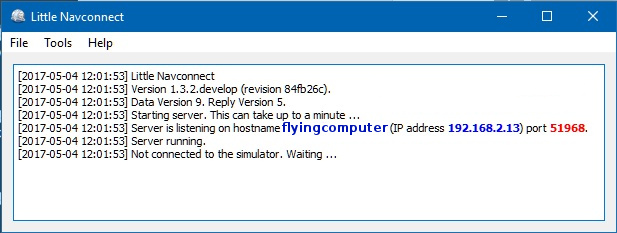
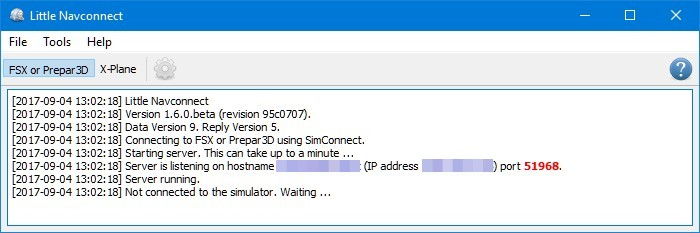
Updated for Little Navmap release 1.6.3 and initial Xpconnect release.

diff --git a/littlenavmap.md b/littlenavmap.md
@@ -1,36 +1,10 @@
 ---
 layout: subpage
 title:  "Little Navmap"
-date:   2017-07-04 20:06:00 +0200
+date:   2017-09-18 12:00:00 +0200
 ---
 [Alex’ Projects](index.html) ► Little Navmap
 # ![Little Navmap](assets/images/navroute.png) Little Navmap
-
-Version 1.4.4.
-
-*Little Navmap* is a free open source flight planner, navigation tool, moving map, airport search and airport information system for Flight Simulator X and Prepar3D.
-
-* All is based purely on flight simulator stock or add-on data, no third party data needed. All stock and add-on airports are loaded in a few minutes. Navigation database updates by [fsAerodata](https://www.fsaerodata.com) and [FSX/P3D Navaids update](https://www.aero.sors.fr/navaids3.html) are supported.
-* It features a detail rich **navigation map** that partially uses symbols from real VFR maps thus transporting a large amount of information. Multiple offline maps, online map themes ([OpenStreetMap](https://www.openstreetmap.org), [OpenTopoMap](https://opentopomap.org), [OpenMapSurfer](http://korona.geog.uni-heidelberg.de/) and more) and two map projections are available. Several map themes provide hill shading.
-* The map shows user and **AI aircraft as well as ships**, airports, **airport maps** (runway details, overrun areas, displaced tresholds, taxiways and more), VOR, VORTAC, TACAN, NDB, ILS, waypoints, airways, airspaces, approach and departure procedures and more. Plenty of information is available in tooltips or information windows for each map object.
-* **Flight plans** and flight plan fragments can be loaded, saved and merged all using the common Flight Simulator PLN files.
-* Additionally flight plans can be exported to the **GFP format used by the Flight1 GTN 650/750**. More export formats are **GPX (GPS Exchange Format, including flown track), PMDG RTE, Aerosoft Airbus FLP and X-Plane FMS**.
-* **Drag and drop** flight plan editing functionality on the map allows to easily create and edit plans.
-* Several fast **automatic flight plan calculation** modes are available to create plans following airways or simply from radio navaid to radio navaid within a split second. No online service is needed for flight plan calculation.
-* Option to **calculate flight plan fragments** between any two waypoints of a present flight plan.
-* Flight plan route descriptions can be read which allows to convert flight plans from and to **ATS routes** as can be retrieved from the various online services like [RouteFinder](http://rfinder.asalink.net). This includes SIDs, STARs and information for cruise speed and altitude.
-* A **profile** window shows the **ground elevation** along the flight plan including the minimum safe altitude for the whole plan or each segment.
-* The map and flight plans including all related information at departure and destination can be **printed**.
-* A fast **airport and navaid search** allows to look for objects by an unimaginable amount of options also featuring a spatial search.
-* **Information windows** display numerous details about airports, runways, COM frequencies, approach and departure procedures, navaids, the user aircraft, AI or multiplayer aircraft as well as ships, **decoded weather** from multiple sources like AS16, Active Sky Next, NOAA and Vatsim.
-* The map display and the measurement units (nautical, metric, imperial) can be customized by the user.
-* All settings, search parameters, current flight plan, map positions and much more are saved between sessions.
-* *Little Navmap* can connect directly to the flight simulator and can also be run stand-alone or in **networked configuration**.
-* An **automatic reconnect** option makes the start order of programs irrelevant. Running a networked setup needs the included [Little Navconnect](littlenavconnect.html) program which eases setup across two or more computers.
-* The program does not consume a lot of resources and can be run on **low end computers**.
-* **Help** is available online \(can be downloaded as PDF, ePub or Mobi\). A PDF file with the complete manual is included with the program. Help buttons in dialogs link to corresponding online help chapter.
-
-**Note that VORTAC, TACAN, SID and STAR need a navdata update by [_fsAerodata_](https://www.fsaerodata.com).**
 
 ## Links {#links}
 
@@ -38,12 +12,44 @@ Version 1.4.4.
 
 [**► Screenshots**](littlenavmapscreens.html)
 
-[► Online User Manual for version](https://albar965.gitbooks.io/little-navmap-user-manual/content/v/release/1.4/en)
+[► Online User Manual for version](https://albar965.gitbooks.io/little-navmap-user-manual/content/v/release/1.6/en)
 
-[► Features](https://albar965.gitbooks.io/little-navmap-user-manual/content/v/release/1.4/en/FEATURES.html)
+[► Features](https://albar965.gitbooks.io/little-navmap-user-manual/content/v/release/1.6/en/FEATURES.html)
 
-[► Map Legend](https://albar965.gitbooks.io/little-navmap-user-manual/content/v/release/1.4/en/LEGEND.html)
+[► Map Legend](https://albar965.gitbooks.io/little-navmap-user-manual/content/v/release/1.6/en/LEGEND.html)
 
 [► GitHub Little Navmap Project and Sources](https://github.com/albar965/littlenavmap)
 
 [![Little Navmap](assets/images/Tipp_FSMagazin_D_Neu_2014_50.png)](https://www.facebook.com/FSMAGAZIN/posts/1349379408450042)
+
+## Version 1.6.3 Features
+
+* *Little Navmap* is a free open source flight planner, navigation tool, moving map, airport search and airport information system.
+* Supported platforms: **Windows 7, 8, 10, Linux and macOS**.
+* Support for **Flight Simulator X, Flight Simulator - Steam Edition, Prepar3D v2, v3, v4 and X-Plane 11**.
+* All is based purely on flight simulator stock or add-on data, no third party data needed. All stock and add-on airports are loaded in a few minutes. Navigation database updates by [fsAerodata](https://www.fsaerodata.com) and [FSX/P3D Navaids update](https://www.aero.sors.fr/navaids3.html) are supported. Support for X-Plane navdata updates.
+* FSX or Prepar3D airspaces can be copied into the X-Plane database.
+* Uses X-Plane stock and updated navdata for approach, SID and STAR procedures including transitions.
+* It features a detail rich **navigation map** that partially uses symbols from real VFR maps thus transporting a large amount of information. Multiple offline maps, online map themes ([OpenStreetMap](https://www.openstreetmap.org), [OpenTopoMap](https://opentopomap.org), [OpenMapSurfer](http://korona.geog.uni-heidelberg.de/) and more) and two map projections are available. Several map themes provide hill shading.
+* The map shows user and **AI aircraft as well as ships**, airports, **airport maps** (runway details, overrun areas, displaced thresholds, taxiways and more), VOR, VORTAC, TACAN, NDB, ILS, waypoints, airways, airspaces, approach and departure procedures and more. Plenty of information is available in tooltips or information windows for each map object.
+* **Flight plans** and flight plan fragments can be loaded, saved and merged all using the common Flight Simulator PLN files as well as **X-Plane FMS** and FLP files.
+* Additionally flight plans can be exported to the **GFP format used by the Flight1 GTN 650/750**. More export formats are **GPX (GPS Exchange Format, including flown track) and PMDG RTE**. FS9 PLN can be imported.
+* **Drag and drop** flight plan editing functionality on the map allows to easily create and edit plans.
+* Several fast **automatic flight plan calculation** modes are available to create plans following airways or simply from radio navaid to radio navaid within a split second. No online service is needed for flight plan calculation.
+* Option to **calculate flight plan fragments** between any two waypoints of a present flight plan.
+* Flight plan route descriptions can be read which allows to convert flight plans from and to **ATS routes** as can be retrieved from the various online services like [RouteFinder](http://rfinder.asalink.net). This includes SIDs, STARs and information for cruise speed and altitude.
+* A **profile** window shows the **ground elevation** along the flight plan including the minimum safe altitude for the whole plan or each segment.
+* The map and flight plans including all related information at departure and destination can be **printed**.
+* A fast **airport and navaid search** allows to look for objects by an unimaginable amount of options also featuring a spatial search.
+* **Information windows** display numerous details about airports, runways, COM frequencies, approach and departure procedures, navaids, the user aircraft, AI or multiplayer aircraft as well as ships, **decoded weather** from multiple sources like X-Plane, AS16, Active Sky Next, Active Sky for Prepare3D v4, NOAA and Vatsim.
+* The map display and the measurement units (nautical, metric, imperial) can be customized by the user.
+* All settings, search parameters, current flight plan, map positions and much more are saved between sessions.
+* *Little Navmap* can connect directly to the flight simulator, the *Little Xpconnect* X-Plane plugin and can also be run stand-alone or in **networked configuration**.
+* An **automatic reconnect** option makes the start order of programs irrelevant. Running a networked setup needs the included [Little Navconnect](littlenavconnect.html) program which eases setup across two or more computers.
+* The program does not consume a lot of resources and can be run on **low end computers**.
+* **Help** is available online \(can be downloaded as PDF, ePub or Mobi\). A PDF file with the complete manual is included with the program. Help buttons in dialogs link to corresponding online help chapter.
+* The program can check for updates on three different channels \(stable, beta and develop\) and will show a notification if a new version is available. Configurable in options dialog.
+
+
+**FSX and Prepar3D only: Note that VORTAC, TACAN, SID and STAR need a navdata update by [_fsAerodata_](https://www.fsaerodata.com).**
+

diff --git a/index.md b/index.md
@@ -1,7 +1,7 @@
 ---
 layout: index
 title:  "Alex' Projects"
-date:   2017-09-03 22:00:00 +0200
+date:   2017-09-18 11:59:00 +0200
 ---
 
 # Alex' Projects
@@ -51,21 +51,21 @@ Help for users, preview of new releases, development progress, screenshots and b
 
 ## Little Navmap {#littlenavmap}
 
-[![Little Navmap](assets/images/navroute.png)](littlenavmap.html) [**► Little Navmap**](littlenavmap.html) is a free open source flight planner, navigation tool, moving map, airport search and airport information system for Flight Simulator X and Prepar3D.
+[![Little Navmap](assets/images/navroute.png)](littlenavmap.html) [**► Little Navmap**](littlenavmap.html) is a free open source flight planner, navigation tool, moving map, airport search and airport information system for Flight Simulator X, Prepar3D and X-Plane.
 
-A widely configurable map display using the OpenStreetMap as a background map which is only one option of many online or included offline maps. The map shows airports, navaids, airways, airspaces, AI or multiplayer aircraft and ships. A seamlessly integrated airport diagram displays taxiways, displaced thresholds, overrun areas, aprons, parking spots and more.
+A widely configurable map display using the OpenStreetMap as a background map which is only one option of many online and included offline maps. The map shows airports, navaids, airways, airspaces, AI or multiplayer aircraft and ships. A seamlessly integrated airport diagram displays taxiways, displaced thresholds, overrun areas, aprons, parking spots and more.
 
-It supports approach and departure procedures, offers several automatic flight plan calculation options and multiple export formats like GFP, GPX, RTE, FLP and FMS as well as drag and drop flight plan editing on the map.
+It supports approach and departure procedures like SIDs and STARs, offers several automatic flight plan calculation options and multiple export formats like GFP, GPX, RTE, FLP and FMS as well as drag and drop flight plan editing on the map. The program can read the PLN, FMS and FLP flight plan formats.
 
 An elevation profile is shown for the flight plan allowing to find a safe cruise altitude.
 
 Search functionality allows to look for airports, navaids or procedures by a large amount of criteria also including a spatial search.
 
-The program can generate an ATS route string from flight plans and vice versa.
+The program can generate an ATS route string from flight plans and vice versa where the output is widely configurable.
 
-**Supported Flight Simulators:** All FSX versions from SP2 up, Flight Simulator - Steam Edition, Prepar3D v2, v3 and v4. Can also run on computers without simulator installation.
+**Supported Flight Simulators:** All FSX versions from SP2 up, Flight Simulator - Steam Edition, Prepar3D v2, v3, v4 and X-Plane 11.
 
-**Supported platforms:** Windows 7/8/10, Apple macOS and Linux (tested on Ubuntu).
+**Supported platforms:** Windows 7/8/10, macOS and Linux.
 
 [![Little Navmap](assets/images/Tipp_FSMagazin_D_Neu_2014_50.png)](https://www.facebook.com/FSMAGAZIN/posts/1349379408450042)
 
@@ -73,12 +73,28 @@ The program can generate an ATS route string from flight plans and vice versa.
 ## Little Navconnect {#littlenavconnect}
 
 [![Little Navconnect](assets/images/navconnect.png)](littlenavconnect.html) [**► Little Navconnect**](littlenavconnect.html) is a
-small free open source application that acts as an agent connecting Little Navmap with a flight simulator. This allows to use Little Navmap
-on Linux or Mac and saves the the pain of setting up remote SimConnect links.
+small free open source application that acts as an agent connecting *Little Navmap* with a flight simulator. This allows to use *Little Navmap*
+on Linux or macOS and saves the the pain of setting up remote SimConnect links for FSX or Prepar3D.
 
-**Supported Flight Simulators:** All FSX versions from SP2 up, Flight Simulator - Steam Edition, Prepar3D v2, v3 and v4.
+**Supported Flight Simulators:** All FSX versions from SP2 up, Flight Simulator - Steam Edition, Prepar3D v2, v3, v4 and X-Plane 11.
 
-**Supported platforms:** Windows 7/8/10.
+**Supported platforms:** Windows 7/8/10, Apple macOS and Linux.
+
+## Little Xpconnect {#littlexpconnect}
+
+![Little Xpconnect](assets/images/xpnavconnect.png) **Little Xpconnect** is a X-Plane plugin that allows *Little Navmap* and *Little Navconnect* to connect to X-Plane.
+
+It is light weight, free and open source.
+
+*Little Xpconnect* is included in the download archive of [Little Navmap](littlenavmap.html).
+
+**Supported Flight Simulators:** X-Plane 11.
+
+**Supported platforms:** Windows 7/8/10, Apple macOS and Linux.
+
+[**► Readme and Installation**](https://github.com/albar965/littlexpconnect/blob/release/1.0/README.txt)
+
+[**► Downloads and Releases**](https://github.com/albar965/littlexpconnect/releases)
 
 ## Little Logbook {#littlelogbook}
 

diff --git a/_posts/2017-09-18-littlenavmap-stable-163-released.md b/_posts/2017-09-18-littlenavmap-stable-163-released.md
@@ -1,0 +1,68 @@
+---
+layout: post
+title:  "Little Navmap 1.6.3 released"
+date:   2017-09-18 12:00:00 +0200
+categories: release
+---
+
+**Direct download:
+[Windows](https://github.com/albar965/littlenavmap/releases/download/v1.6.3/LittleNavmap-win-1.6.3.zip) -
+[macOS](https://github.com/albar965/littlenavmap/releases/download/v1.6.3/LittleNavmap-macOS-1.6.3.zip) -
+[Linux](https://github.com/albar965/littlenavmap/releases/download/v1.6.3/LittleNavmap-linux-1.6.3.tar.gz)**
+
+[**► Online Manual**](https://albar965.gitbooks.io/little-navmap-user-manual/content/v/release/1.6/en/)
+
+[**► Features**](/littlenavmap.html)
+
+## Notes
+
+Most changes are regarding X-Plane support but installation of this update is also recommended for FSX or Prepar3D users due to several bug fixes and small improvements.
+
+The scenery database format has changed since 1.4.4 and the program will ask to erase its own databases if started. The `Load Scenery Library` dialog will open after removing the old databases.
+
+*Little Navconnect* is now included in the *Little Navmap* download archive in a sub-directory.
+
+The *Little Xpconnect* X-Plane plugin included in the *Little Navmap* download archive.
+
+## Changes from Release 1.4.4 to 1.6.3
+
+
+### Full support for X-Plane 11
+
+* Scenery database: Airports, aprons, taxiways, navaids, airways, procedures \(SIDs, STARs, ...\) and all.
+* Read and decode the downloaded X-Plane weather files.
+* Copy airspaces from FSX/P3D to X-Plane database.
+* Can load and save FMS files.
+* Moving map \(needs included *Little XpConnect* plugin\) also allowing remote setups.
+* Displays AI traffic.
+* Flight plan calculation considers additional maximum altitude and one-way restrictions.
+* Enabled database file exclusions and add-on override options to X-Plane loader.
+* Speed limit for procedure segments.
+* All for Windows, macOS and Linux.
+
+### General Improvements
+
+* Automatic update check with notification and settings in dialog `Options` on tab `Startup`.
+* _Active Sky for Prepar3D v4_ weather now supported.
+* Rhumb line measurement now shows both magnetic and true course where declination is based on origin.
+* Improved weather display for nearest station: Added name, distance and map link to reporting station if the station is an airport.
+* Route string generation is now more robust for malformed and incomplete flight plans.
+* Added buttons to clear selection and reset search in search dock window and flight plan window.
+* Now erasing wrong airway entries at departure and destination when loading flight plan to avoid problems with malformed files from other tools.
+* Can now load FMS, FLP and FS9 ini-style PLN flight plan formats.
+* Shows startup positions in the information window now.
+* Added donation link to help menu and about dialog.
+* Database loading dialog now pops up after erasing incompatible databases.
+
+### Bug Fixes
+
+* Fixed multiple problems with magnetic declination by using `magdec.bgl` file.
+* Several problems fixed when loading FSX/P3D scenery databases and P3D v4 `add-on.xml`.
+* Corrected handling and display of helipads. Now using name as an identifier.
+* Fixed missing encoding in saved PLN files which caused problems with other tools.
+* Better detection of military airports name capitalization.
+
+**See the included `CHANGELOG.txt` or [here](https://github.com/albar965/littlenavmap/blob/release/1.6/CHANGELOG.txt) online for a complete list across all versions.**
+
+**All files are checked by [VirusTotal](https://www.virustotal.com).**
+

diff --git a/littlenavconnect.md b/littlenavconnect.md
@@ -1,22 +1,26 @@
 ---
 layout: subpage
 title:  "Little Navconnect"
-date:   2017-06-02 20:50:00 +0200
+date:   2017-09-18 12:00:00 +0200
 ---
 [Alex’ Projects](index.html) ► Little Navconnect
 # ![Little Navconnect](assets/images/navconnect.png) Little Navconnect
 
-*Little Navconnect* is a free open source application that acts as an agent connecting *Little Navmap* with a flight simulator. This allows to use *Little Navmap* on remote, Linux or Mac computers and saves the the pain of setting up SimConnect links across a network.
+*Little Navconnect* is a free open source application that acts as an agent connecting *Little Navmap* with a flight simulator. This allows to use *Little Navmap* on remote, Linux or macOS computers and saves the the pain of setting up SimConnect links across a network.
+
+*Little Navconnect* also allows to connect to the *Little Xpconnect* X-Plane plugin.
 
 ## Links {#links}
 
-**Little Navconnect is included in the download archive of [Little Navmap](littlenavmap.html).** Downloading it separately is normally not needed.
+**Little Navconnect is included in the download archive of [Little Navmap](littlenavmap.html).** 
+
+Downloading it separately is normally not needed.
 
 [► **Releases and Downloads**](https://github.com/albar965/littlenavconnect/releases)
 
-[► Online User Manual](https://albar965.gitbooks.io/little-navconnect-user-manual/content/v/release/1.4/en)
+[► Online User Manual](https://albar965.gitbooks.io/little-navconnect-user-manual/content/v/release/1.6/en)
 
-[► GitHub Little Navmap Project and Sources](https://github.com/albar965/littlenavconnect)
+[► GitHub Little Navconnect Project and Sources](https://github.com/albar965/littlenavconnect)
 
 
 ## Screenshots {#screenshots}

diff --git a/littlenavmapscreens.md b/littlenavmapscreens.md
@@ -1,7 +1,7 @@
 ---
 layout: subpage
 title:  "Little Navmap Screenshots"
-date:   2017-05-13 13:04:00 +0200
+date:   2017-09-18 12:00:00 +0200
 ---
 [Alex’ Projects](index.html) ►  [Little Navmap](littlenavmap.html) ► Screenshots
 # Screenshots
@@ -9,12 +9,17 @@ date:   2017-05-13 13:04:00 +0200
 Click on image for full size.
 
 ----
+**Little Navmap 1.6.3 overview:**
+
+[![Little Navmap 1.6.3 Overview](assets/images/overview.jpg)](assets/images/overview.jpg)
+
+----
 **Little Navmap 1.4.0.beta showing all new features like procedures and airspaces:**
 
 [![Little Navmap 1.4 Overview](assets/images/littlenavmapall140.jpg)](assets/images/littlenavmapall140.jpg)
 
 ----
-**Little Navmap 1.4.0.beta airpsaces:**
+**Little Navmap 1.4.0.beta airspaces:**
 
 [![Little Navmap Airspaces](assets/images/littlenavmapairspace140.jpg)](assets/images/littlenavmapairspace140.jpg)
 

diff --git a/donate.md b/donate.md
@@ -1,7 +1,7 @@
 ---
 layout: subpage
 title:  "Donations / Spenden"
-date:   2017-09-05 20:00:00 +0200
+date:   2017-09-18 11:58:00 +0200
 ---
 
 [Alex’ Projects](index.html) ► Donations / Spenden
@@ -41,7 +41,7 @@ Wenn Sie Ihre Wertschätzung für meine Arbeit zeigen möchten, können Sie hier
 
 Spenden sind vollkommen freiwillig.
 
-# Science Fiction
+# Science Fiction (German/Deutsch)
 
 Alternativ würde mich auch darüber freuen, wenn Sie das Projekt meiner Frau Anja Fahrner \([**Autorenseite**](https://www.anja-fahrner.de)\) anschauen.
 
